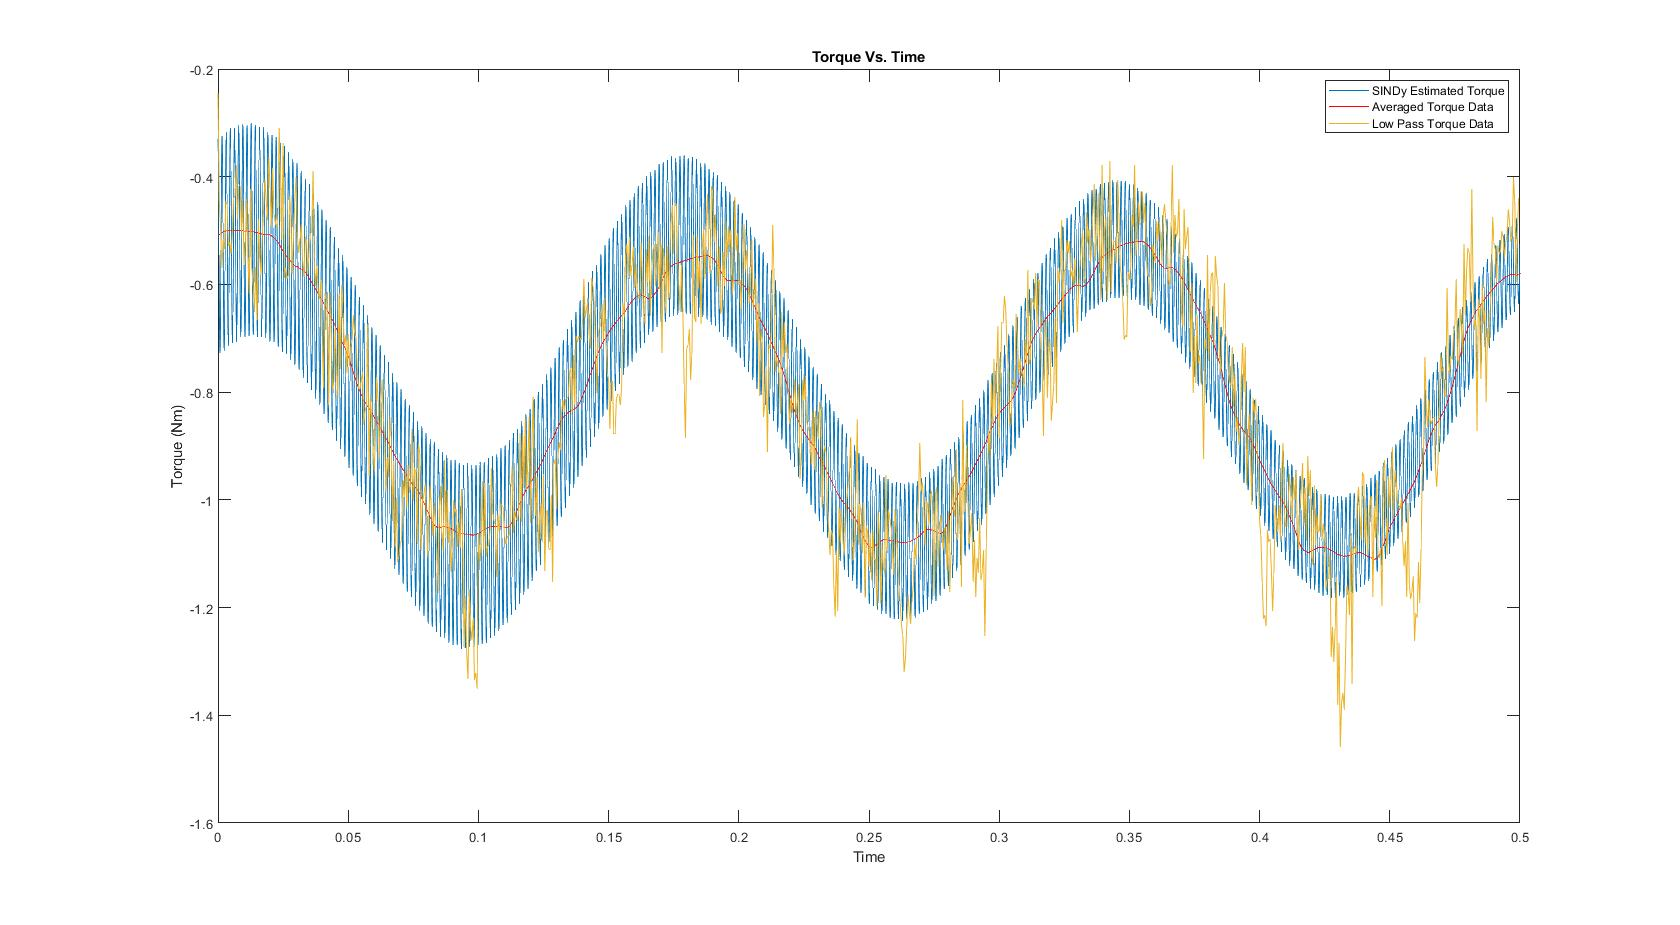
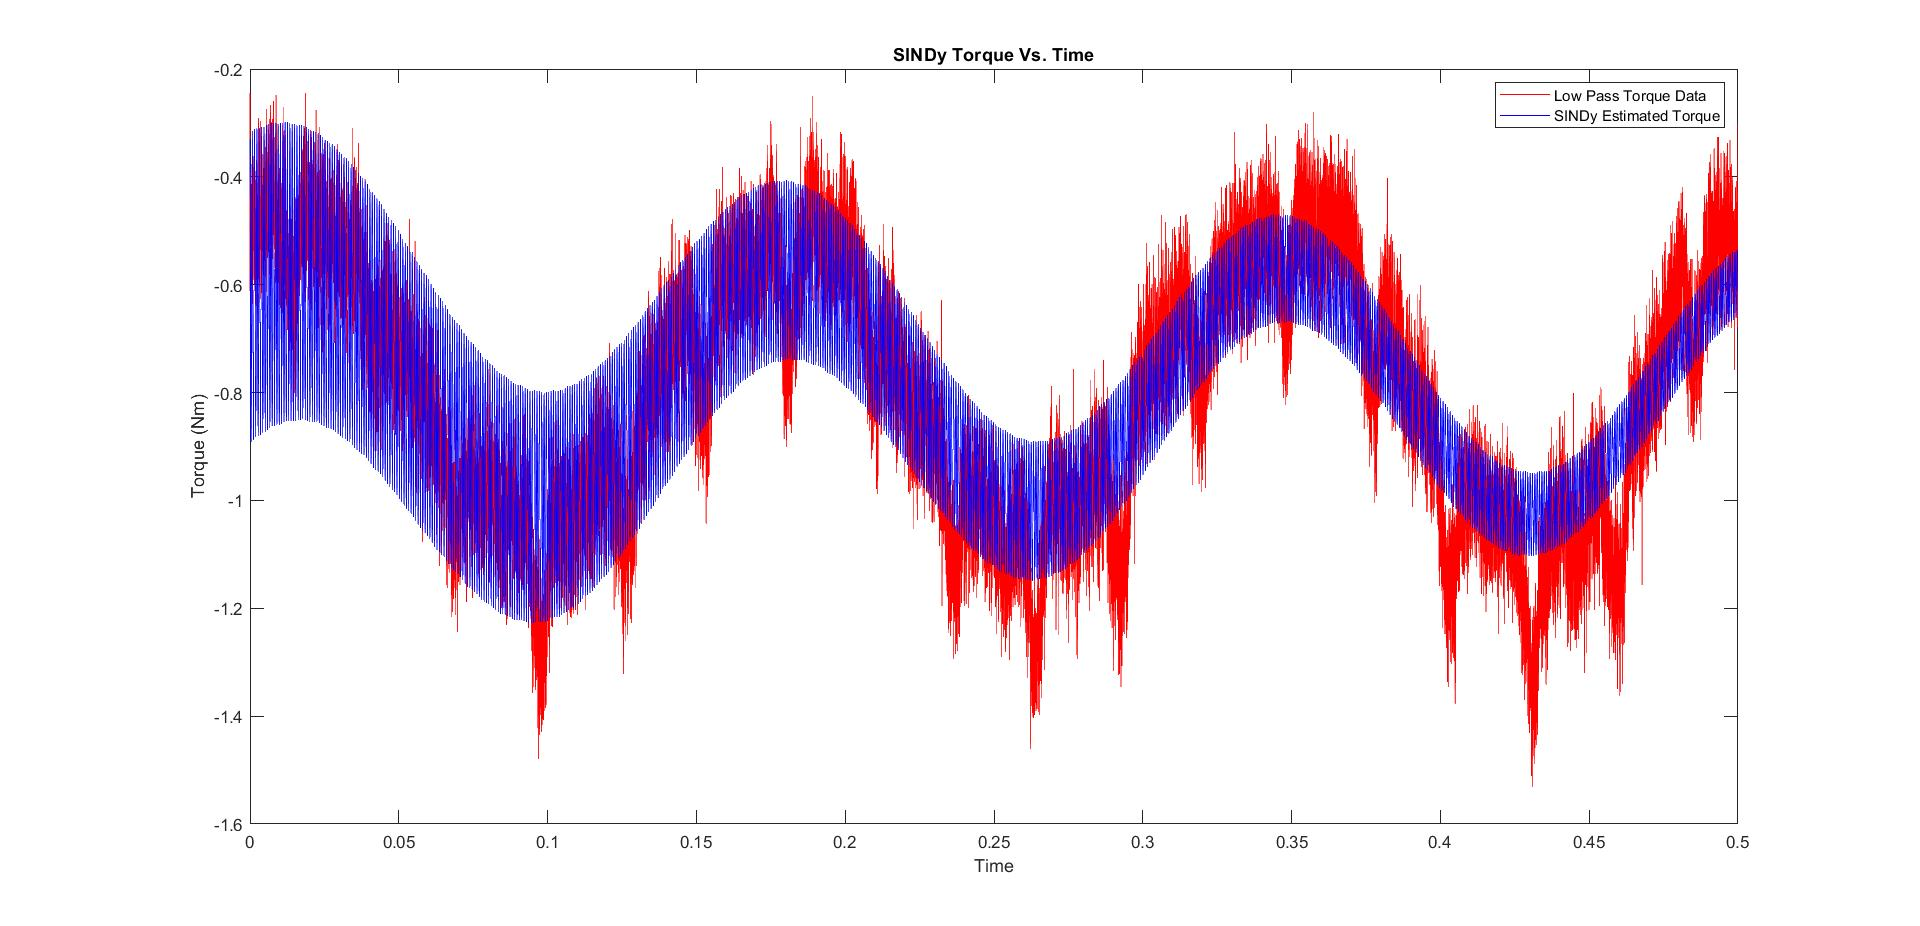
Updated code to have all items averaged or filtered

diff --git a/Matlab/code.m b/Matlab/code.m
@@ -62,7 +62,7 @@ i_dqmax = 240; % Amps
 % \end{array}\right]$
 
 p     = 3                        ; % Pole Pair Number
-m     = 5                       ; % Number of reduced datapoints
+m     = 1                       ; % Number of reduced datapoints
 dt    = 1e-6 * m                 ; % Time step in seconds
 index = size(ReducedTorqueData,1)/m; %
 time  = [0:dt:.5-dt]             ;
@@ -83,10 +83,12 @@ Q = [cos(ReducedTorqueData.epsilon_elInRad) sin(ReducedTorqueData.epsilon_elInRa
 
 angleCos = angleCos(1:m:end,:);
 angleSin = angleSin(1:m:end,:);
-iabc = iabc(:,1:m:end);
-vabc = vabc(:,1:m:end);
-Q = Q(1:m:end);
-i_d = zeros(size(ReducedTorqueData,1)/m,1);
+sinEps = sin(ReducedTorqueData.epsilon_elInRad(1:m:end));
+cosEps = cos(ReducedTorqueData.epsilon_elInRad(1:m:end));
+iabc     = iabc(:,1:m:end);
+vabc     = vabc(:,1:m:end);
+Q        = Q(1:m:end);
+i_d      = zeros(size(ReducedTorqueData,1)/m,1);
 i_q = i_d; u_d = i_d; u_q = i_d;
 %%
 for i = 1:length(time)
@@ -96,31 +98,37 @@ for i = 1:length(time)
     u_q(i) = 2/3*angleSin(i,:)*vabc(:,i);
 end
 %%
-i_dPass = lowpass(i_d,1/1e5);
-i_qPass = lowpass(i_q,1/1e5);
-i_dAve = smoothdata(i_d);
-i_qAve = smoothdata(i_q);
+% i_dPass = lowpass(i_d,1/1e5);
+% i_qPass = lowpass(i_q,1/1e5);
+% u_dPass = lowpass(u_d,1/1e5);
+% u_qPass = lowpass(u_q,1/1e5);
+% sinEpsPass = lowpass(sinEps,1/1e5);
+% cosEpsPass = lowpass(cosEps,1/1e5);
+method = 'movmean';
+i_dAve = smoothdata(i_d,method);
+i_qAve = smoothdata(i_q,method);
+u_dAve = smoothdata(u_d,method);
+u_qAve = smoothdata(u_q,method);
+sinEpsAve = smoothdata(sinEps,method);
+cosEpsAve = smoothdata(cosEps,method);
 torque = 3/2*p *((Ld*i_d + psi_p).*i_q - (Lq*i_q.*i_d));
-torquePass = 3/2*p *((Ld*i_dPass + psi_p).*i_qPass - (Lq*i_qPass.*i_dPass));
+% torquePass = 3/2*p *((Ld*i_dPass + psi_p).*i_qPass - (Lq*i_qPass.*i_dPass));
 torqueAve = 3/2*p *((Ld*i_dAve + psi_p).*i_qAve - (Lq*i_qAve.*i_dAve));
-averagedTorque = smoothdata(torque);
+averagedTorque = smoothdata(torque,method);
 
 %%
-subplot(2,1,1)
-plot(time, torque,time,torquePass)
-legend('Raw Torque Data','Low Pass Filter - \pi/20000 rad/sample')
-subplot(2,1,2)
-plot(time,averagedTorque,time,torqueAve)
+figure(1)
+plot(time, torque,time,torquePass,time,averagedTorque)
+legend('Raw Torque Data','Low Pass Filter - \pi/20000 rad/sample','Averaged Torque Data')
 xlabel('Time')
 ylabel('Torque (Nm)')
-legend('Averaged Torque Data','Averaged Current')
 title('Torque Vs. Time')
 %%
 % Set up library functions
-sinEps = sin(ReducedTorqueData.epsilon_elInRad(1:m:end));
-cosEps = cos(ReducedTorqueData.epsilon_elInRad(1:m:end));
-x = [torque i_d i_q u_d u_q sinEps cosEps];
-%x = [torquePass i_dPass i_qPass u_d u_q sinEps cosEps];
+
+%x = [torque i_d i_q u_d u_q sinEps cosEps];
+%x = [torquePass i_dPass i_qPass u_dPass u_qPass sinEpsPass cosEpsPass];
+x = [torqueAve i_dAve i_qAve u_dAve u_qAve sinEpsAve cosEpsAve];
 
 M = size(x,2);
 for i=3:length(x)-3
@@ -128,26 +136,26 @@ for i=3:length(x)-3
         dx(i-2,k) = (1/(12*dt))*(-x(i+2,k)+8*x(i+1,k)-8*x(i-1,k)+x(i-2,k));
     end
 end
-%%
+
 x = [x(3:end-3,:)];
-polyorder = 1;
+polyorder = 3;
 usesine   = 0;
 Theta = poolData(x,M,polyorder,usesine);
-lambda = .5; % 
+lambda = .05; % 
 
 Xi = sparsifyDynamics(Theta,dx,lambda,6);
 poolDataLIST({'torque', 'id','iq','ud','uq','sin(e)','cos(e)'},Xi,M,polyorder,usesine);
 %%
 r = 6;
-options = odeset('RelTol',1e-8,'AbsTol',1e-8*ones(1,r+1));
+options = odeset('RelTol',1e-6,'AbsTol',1e-6*ones(1,r+1));
 x0 = x(1,:);%
-[tD,xD]=ode113(@(t,x)sparseGalerkin(t,x,Xi,polyorder,usesine),time,x0,options);
+[tD,xD]=ode45(@(t,x)sparseGalerkin(t,x,Xi,polyorder,usesine),time,x0,options);
 
-%torqueSINDy = 3/2*p*((Ld*xD(:,1) + psi_p).*xD(:,2) - (Lq*xD(:,2).*xD(:,1)));
-torqueSINDy = xD(:,1);
+torqueSINDy = 3/2*p*((Ld*xD(:,2) + psi_p).*xD(:,3) - (Lq*xD(:,3).*xD(:,2)));
+%torqueSINDy = xD(:,1);
 figure(2)
-plot(tD,torqueSINDy,'b',time,torquePass,'r-')
+plot(time,torqueAve,'r-',tD,xD(:,1),'b')
 xlabel('Time')
 ylabel('Torque (Nm)')
-legend('SINDy Estimated Torque','Low Pass Torque Data')
-title('Torque Vs. Time')
+legend('Average Torque Data','SINDy Estimated Average Torque')
+title('SINDy Torque Vs. Time')
